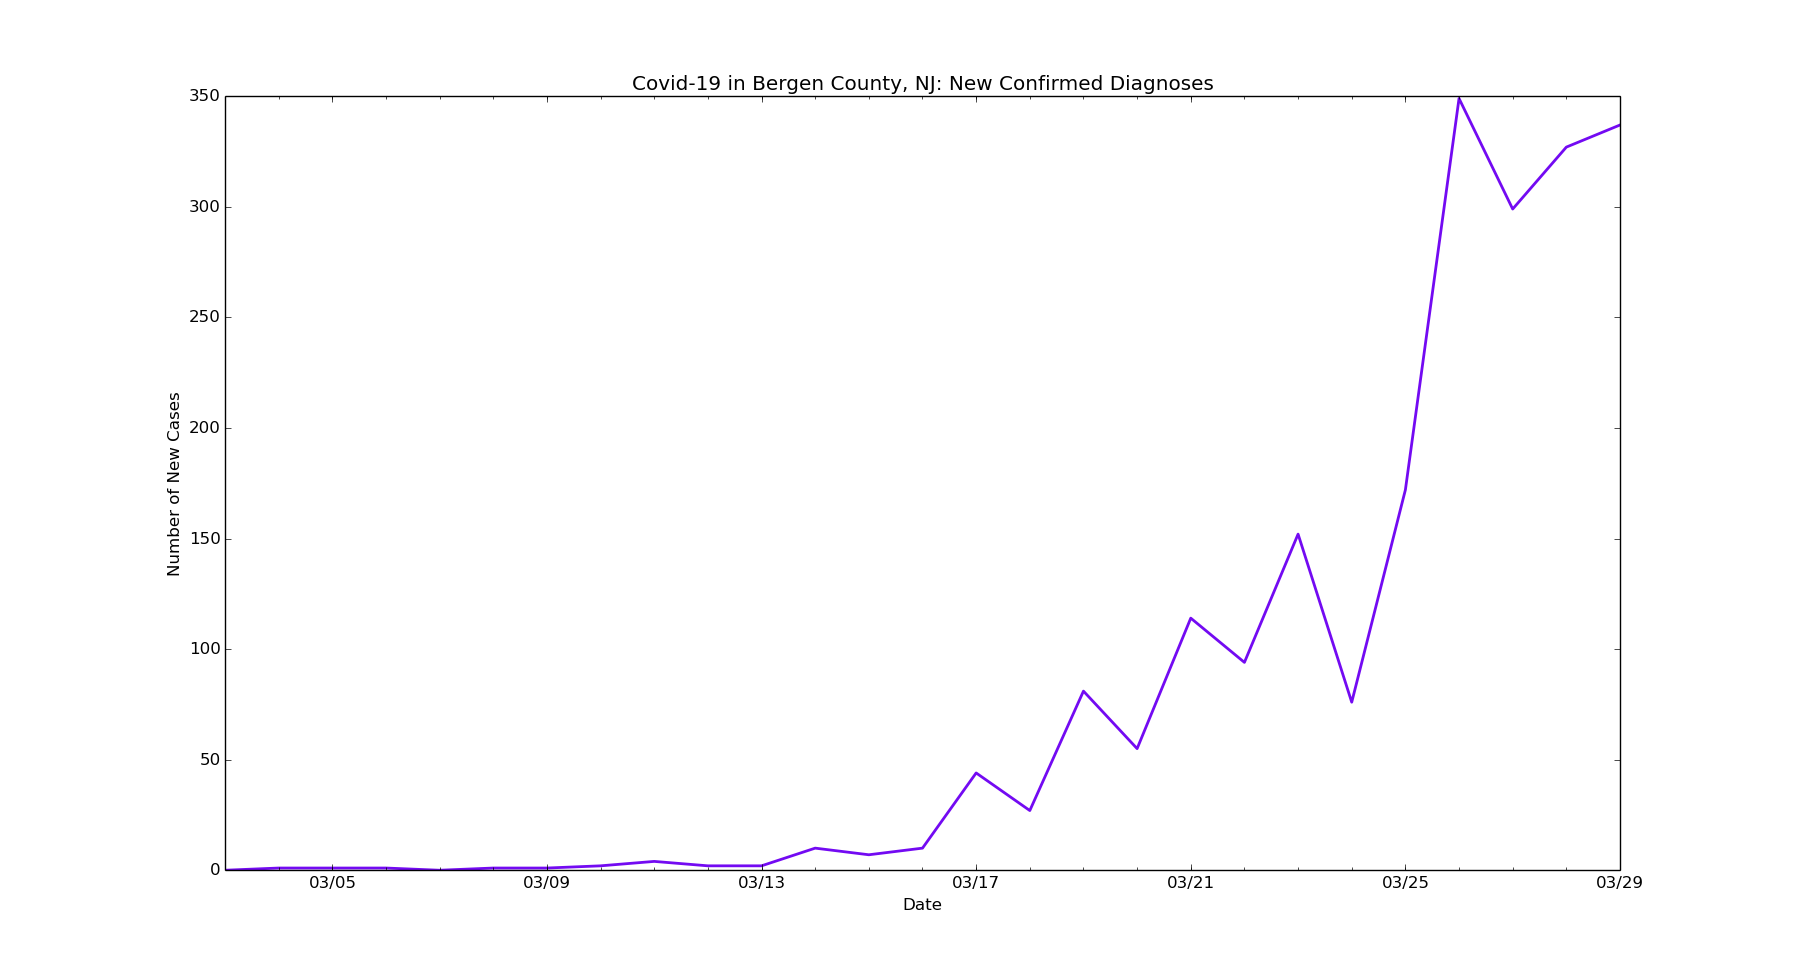
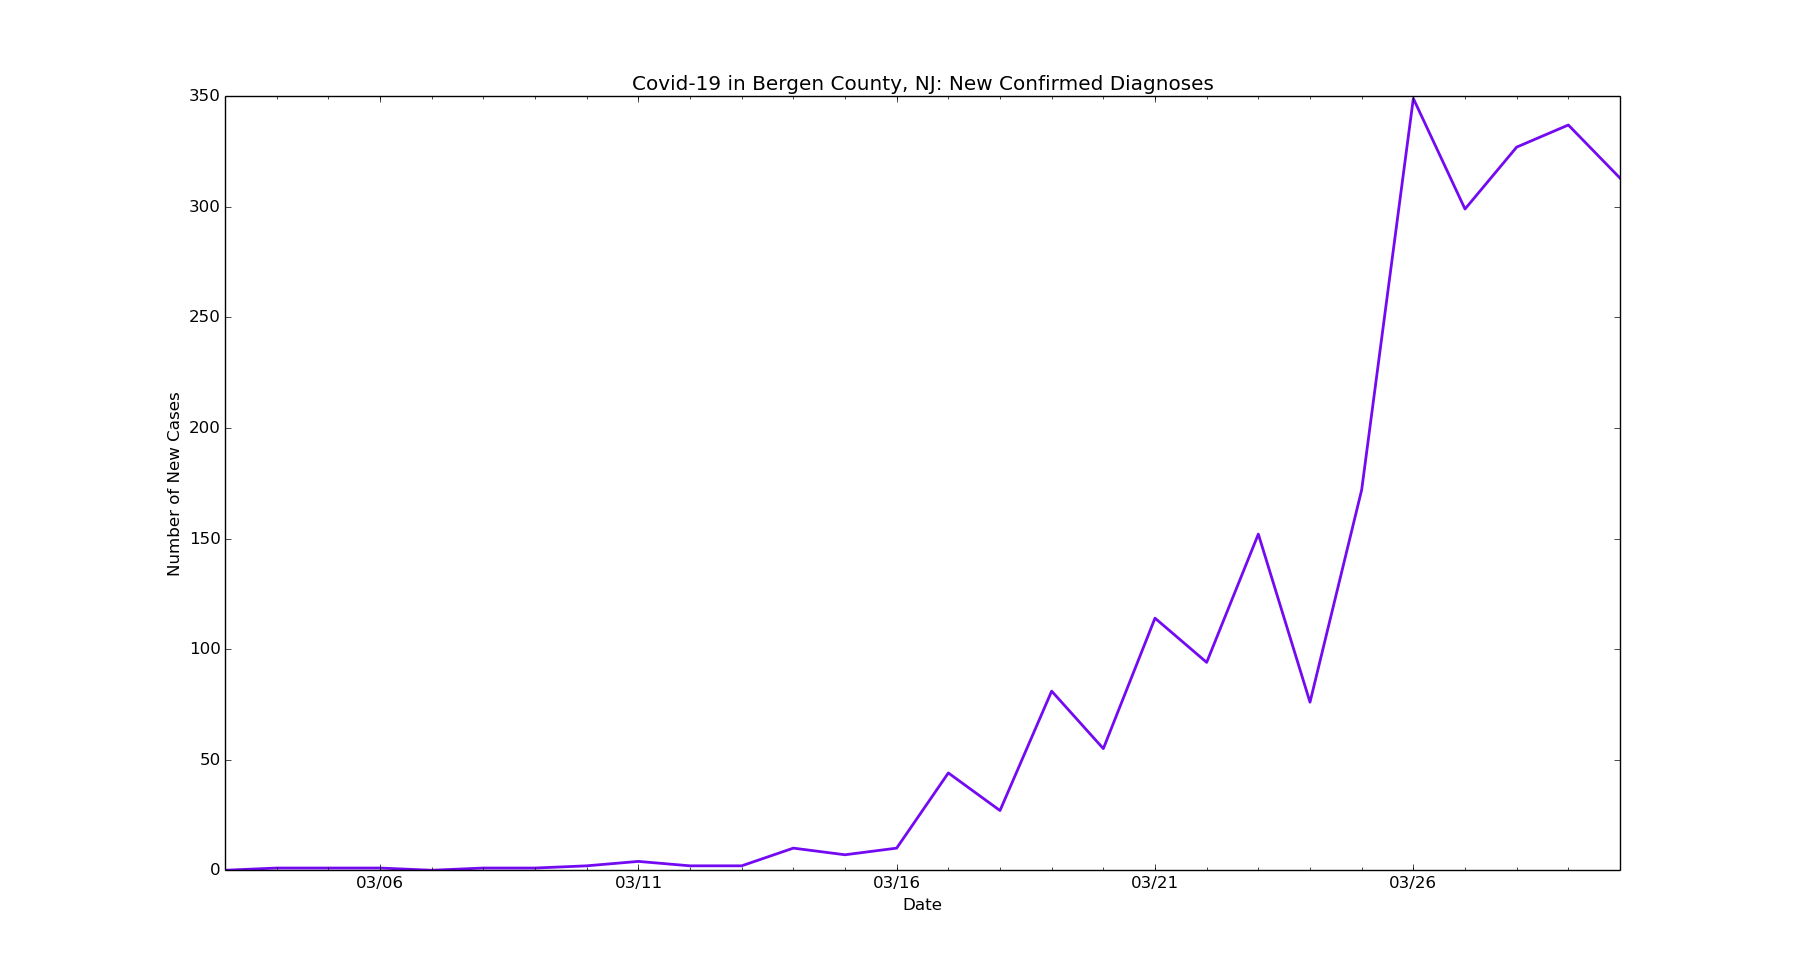
chore: Update Bergen County data

diff --git a/bergen-county/bergen-new-cases.py b/bergen-county/bergen-new-cases.py
@@ -6,7 +6,7 @@ import matplotlib.dates as mdates
 import matplotlib.ticker as ticker
 from matplotlib.dates import MO, TU, WE, TH, FR, SA, SU
 
-dates = ['3/3/2020', '3/4/2020', '3/5/2020', '3/6/2020', '3/7/2020', '3/8/2020', '3/9/2020', '3/10/2020', '3/11/2020', '3/12/2020', '3/13/2020', '3/14/2020', '3/15/2020', '3/16/2020', '3/17/2020', '3/18/2020', '3/19/2020', '3/20/2020', '3/21/2020', '3/22/2020', '3/23/2020', '3/24/2020', '3/25/2020', '3/26/2020', '3/27/2020', '3/28/2020', '3/29/2020']
+dates = ['3/3/2020', '3/4/2020', '3/5/2020', '3/6/2020', '3/7/2020', '3/8/2020', '3/9/2020', '3/10/2020', '3/11/2020', '3/12/2020', '3/13/2020', '3/14/2020', '3/15/2020', '3/16/2020', '3/17/2020', '3/18/2020', '3/19/2020', '3/20/2020', '3/21/2020', '3/22/2020', '3/23/2020', '3/24/2020', '3/25/2020', '3/26/2020', '3/27/2020', '3/28/2020', '3/29/2020', '3/30/2020']
 
 # format dates
 x_values = [datetime.datetime.strptime(d, "%m/%d/%Y").date() for d in dates]
@@ -16,7 +16,7 @@ ax.xaxis.set_major_formatter(formatter)
 
 # create x-axis
 # major tick = every 3 days
-ax.xaxis.set_major_locator(mdates.WeekdayLocator(byweekday=(MO, TU, WE, TH, FR, SA, SU), interval=4))
+ax.xaxis.set_major_locator(mdates.WeekdayLocator(byweekday=(MO, TU, WE, TH, FR, SA, SU), interval=5))
 # minor tick = daily
 ax.xaxis.set_minor_locator(mdates.WeekdayLocator(byweekday=(MO, TU, WE, TH, FR, SA, SU)))
 
@@ -24,7 +24,7 @@ ax.xaxis.set_minor_locator(mdates.WeekdayLocator(byweekday=(MO, TU, WE, TH, FR, 
 ax.get_yaxis().set_major_formatter(ticker.FuncFormatter(lambda x, pos: format(int(x), ',')))
 
 # new cases by day
-new_cases = [0, 1, 1, 1, 0, 1, 1, 2, 4, 2, 2, 10, 7, 10, 44, 27, 81, 55, 114, 94, 152, 76, 172, 349, 299, 327, 337]
+new_cases = [0, 1, 1, 1, 0, 1, 1, 2, 4, 2, 2, 10, 7, 10, 44, 27, 81, 55, 114, 94, 152, 76, 172, 349, 299, 327, 337, 313]
 
 # text labels
 plt.title('Covid-19 in Bergen County, NJ: New Confirmed Diagnoses')
